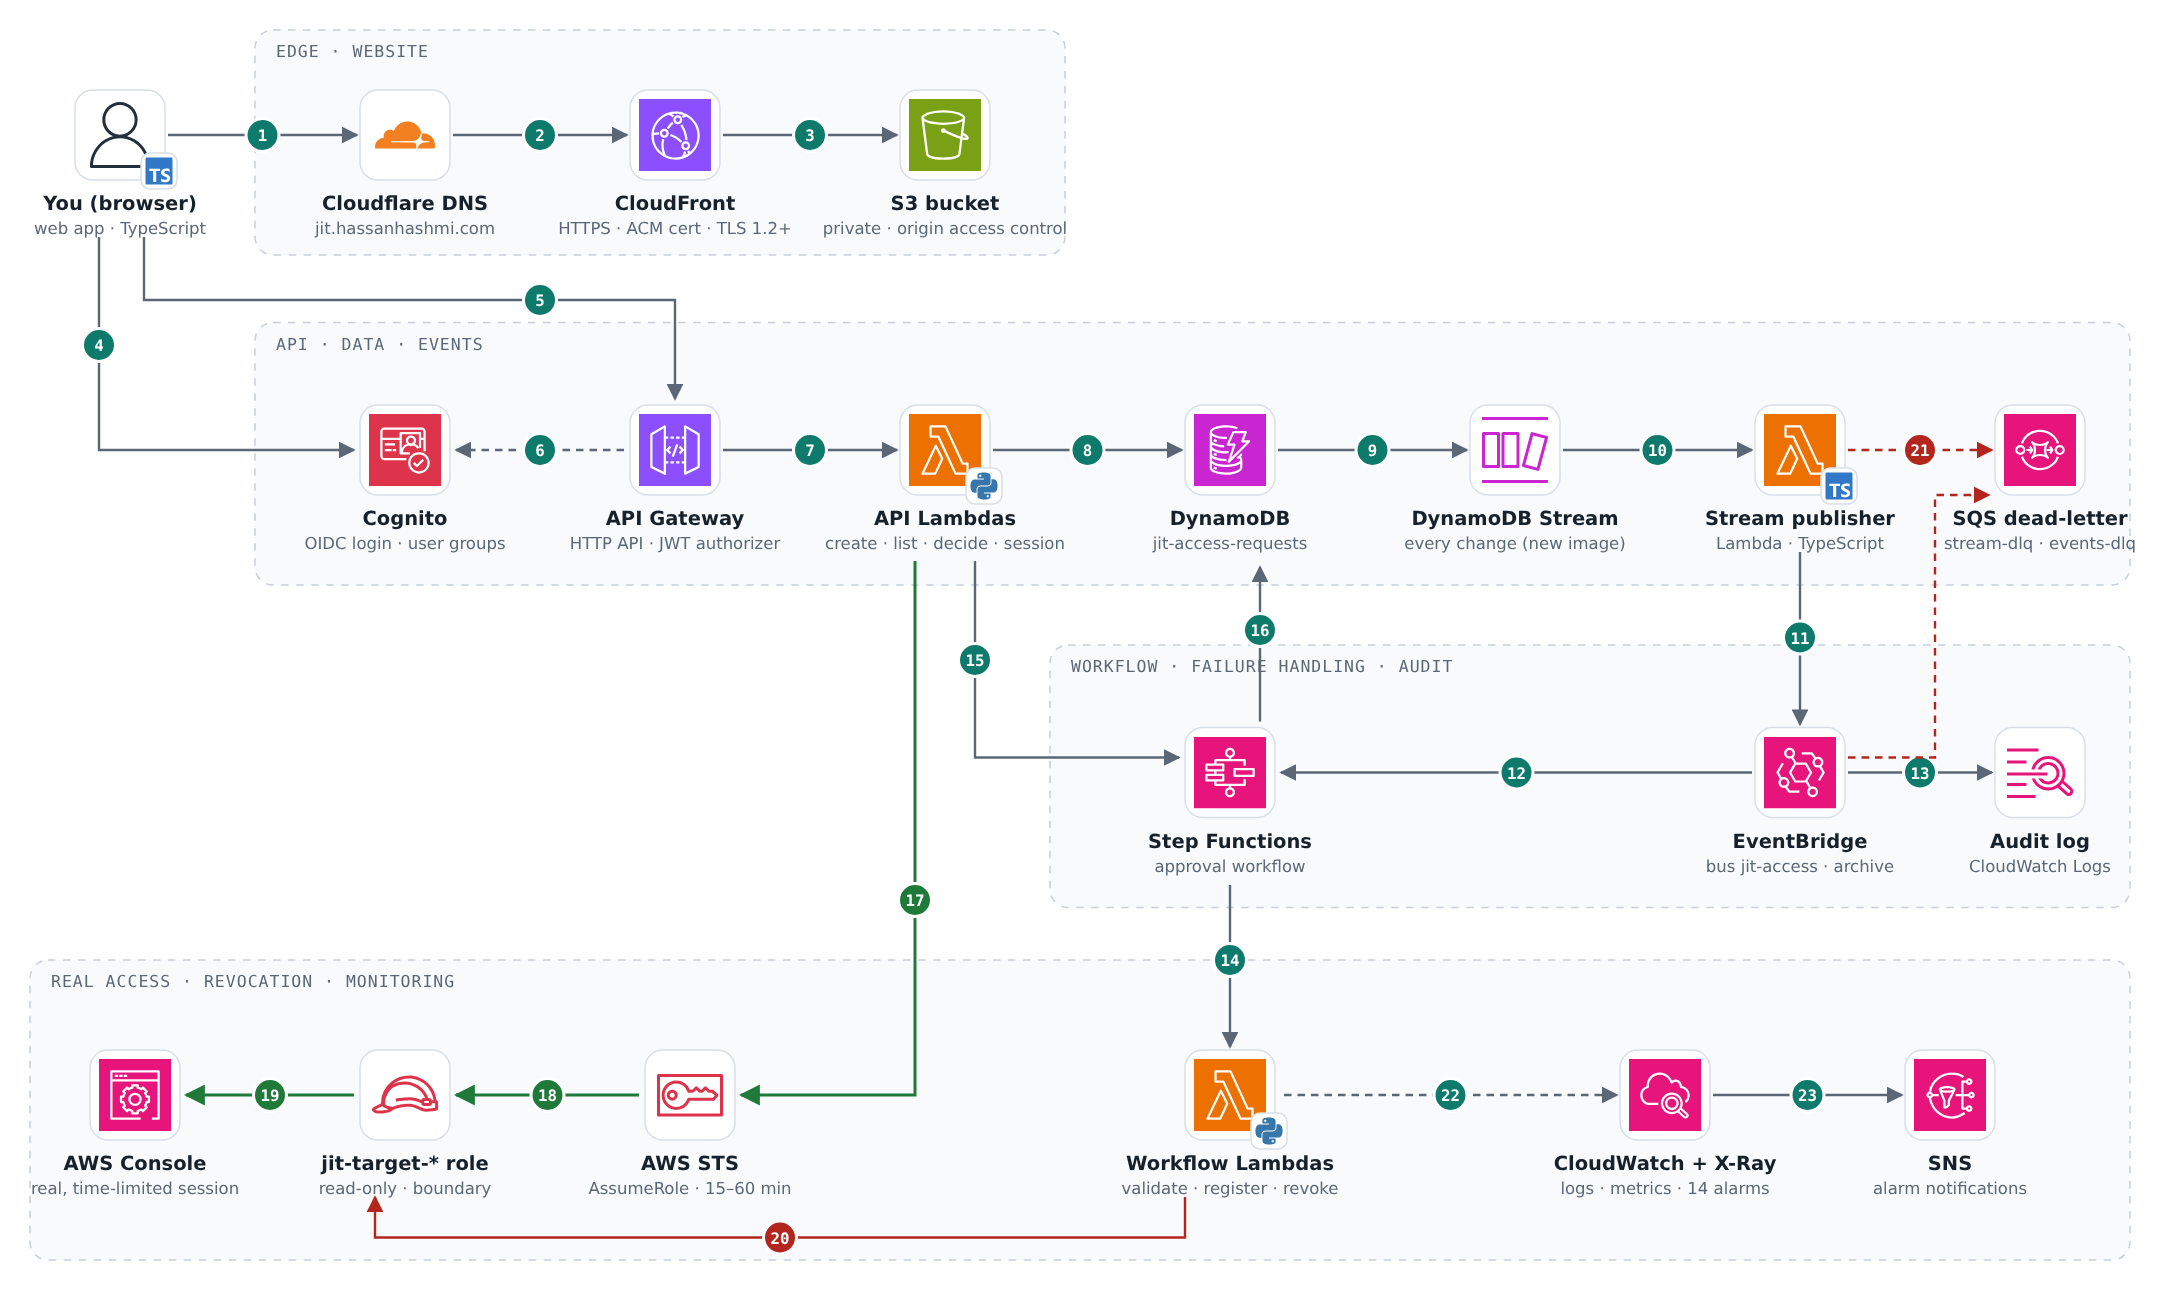
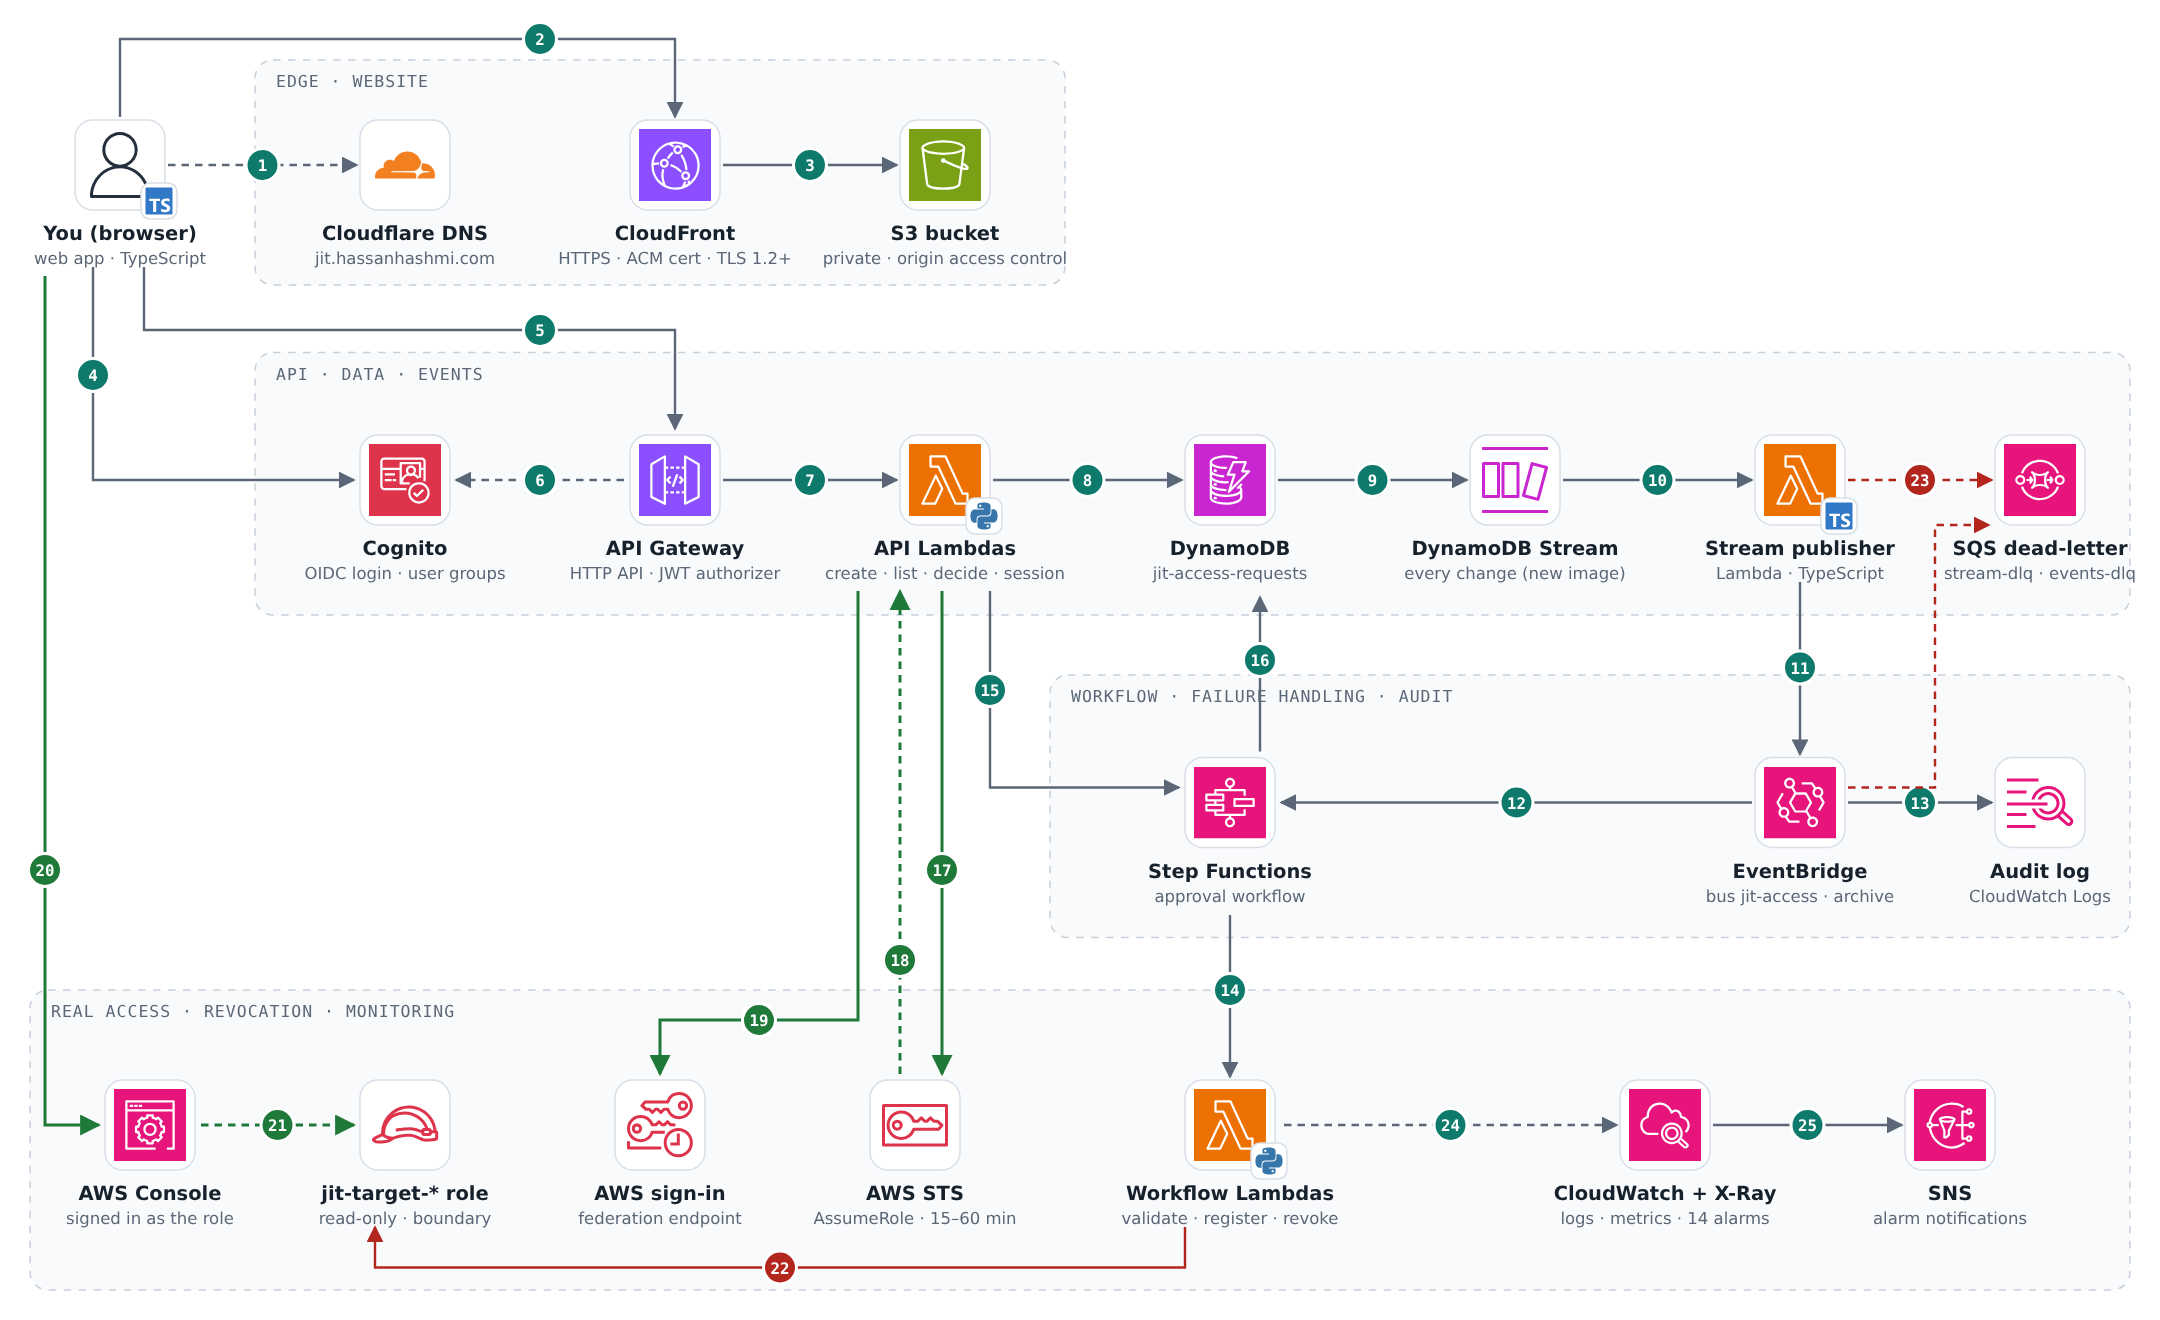
Redraw the runtime diagram: DNS as a lookup and the real console sign-in path

diff --git a/README.md b/README.md
@@ -27,21 +27,25 @@ Every step is audited.
 
 ![Runtime flow](docs/images/runtime-flow.png)
 
-- **Edge (1–3):** Cloudflare DNS points `jit.hassanhashmi.com` at CloudFront, which serves the app from a
-  private S3 bucket with an ACM certificate (TLS 1.2+).
+- **Edge (1–3):** the browser looks up `jit.hassanhashmi.com` in Cloudflare DNS, then connects straight to
+  CloudFront, which serves the app from a private S3 bucket with an ACM certificate (TLS 1.2+).
 - **Authentication (4–6):** Cognito issues tokens; API Gateway's JWT authorizer checks signature, issuer,
   client, expiry and scope before any code runs. A bad token gets a 401.
-- **Authorization (7):** the Python Lambdas decide what you may do: only approvers see the queue and decide,
-  nobody approves their own request, only the requester can open the console. Otherwise 403.
+- **Authorization (7):** the Python Lambdas decide what you may do: only requesters create requests, only
+  approvers see the queue and decide, nobody approves their own request, only the requester can open the
+  console. Otherwise 403.
 - **Events (8–13):** requests are saved in DynamoDB with conditional writes. The stream feeds a TypeScript
   Lambda that publishes to an EventBridge bus; rules start the workflow and copy every event to an audit log.
 - **Workflow (14–16):** Step Functions validates policy, pauses on a task token until an approver decides,
   grants, waits until expiry and revokes, with retries and a catch on every step.
-- **Real access (17–20):** a broker Lambda assumes a `jit-target-*` role through STS with the user's name as
-  `SourceIdentity`, and returns a one-time console sign-in link. At expiry a revoker denies that user's older
-  sessions on the role, so open consoles stop within seconds.
-- **Failures and monitoring (21–23):** anything that still fails after retries lands in an SQS dead-letter
-  queue. 14 CloudWatch alarms notify through SNS; traces go to X-Ray.
+- **Real access (17–21):** the start-session Lambda calls STS AssumeRole on a `jit-target-*` role with the
+  user's name as `SourceIdentity`, gets temporary credentials back, and swaps them at the AWS sign-in
+  (federation) endpoint for a one-time link. The browser opens it and lands in the AWS console, signed in as
+  that read-only role.
+- **Revocation (22):** at expiry a revoker adds a deny to the role for that user's older sessions, so open
+  consoles stop within seconds.
+- **Failures and monitoring (23–25):** anything that still fails after retries lands in an SQS dead-letter
+  queue. Logs and metrics go to CloudWatch (14 alarms notify through SNS); traces go to X-Ray.
 
 ## How changes reach AWS
 
